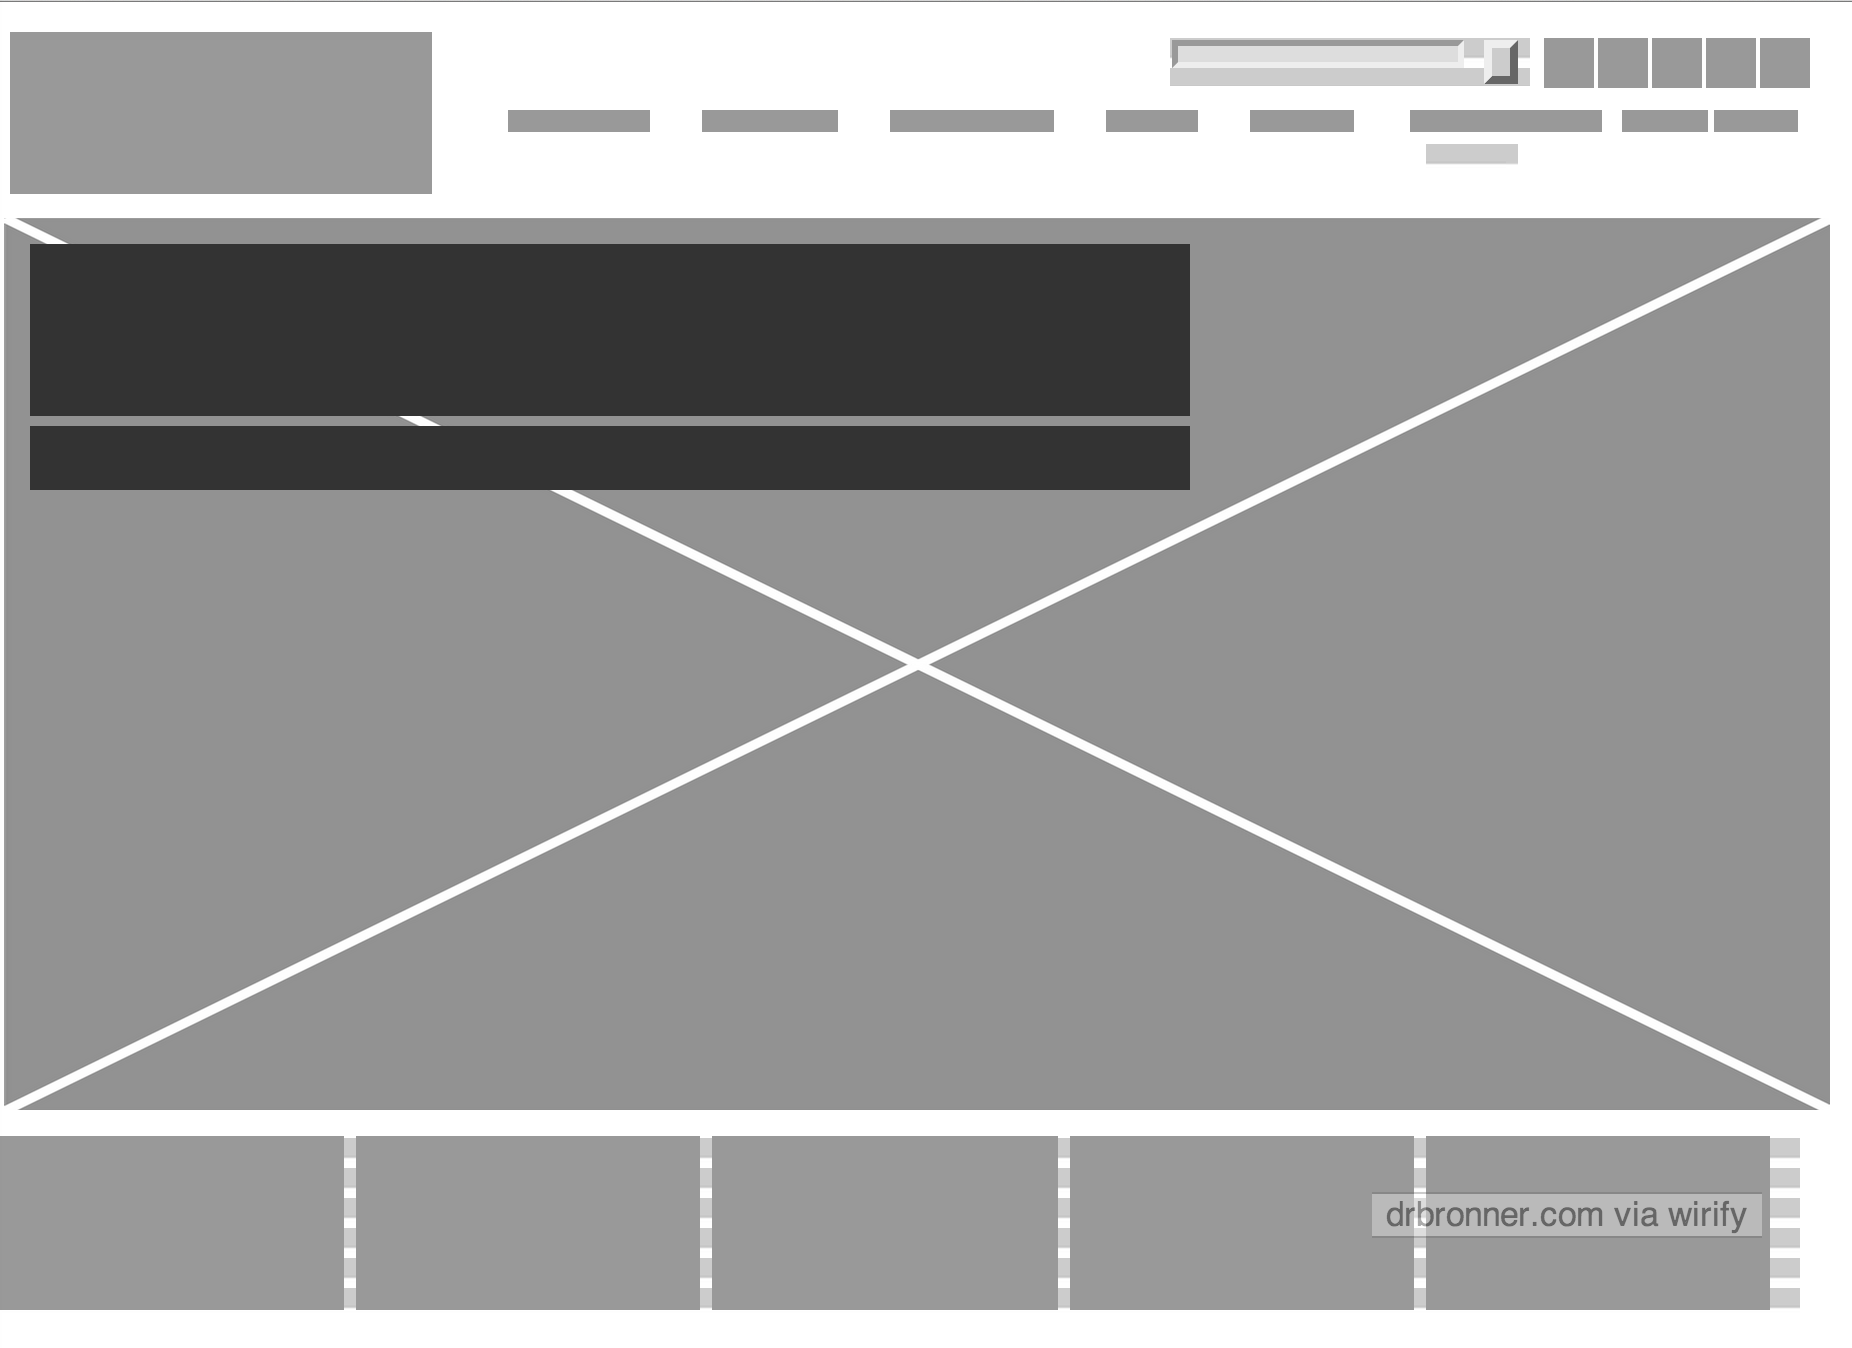
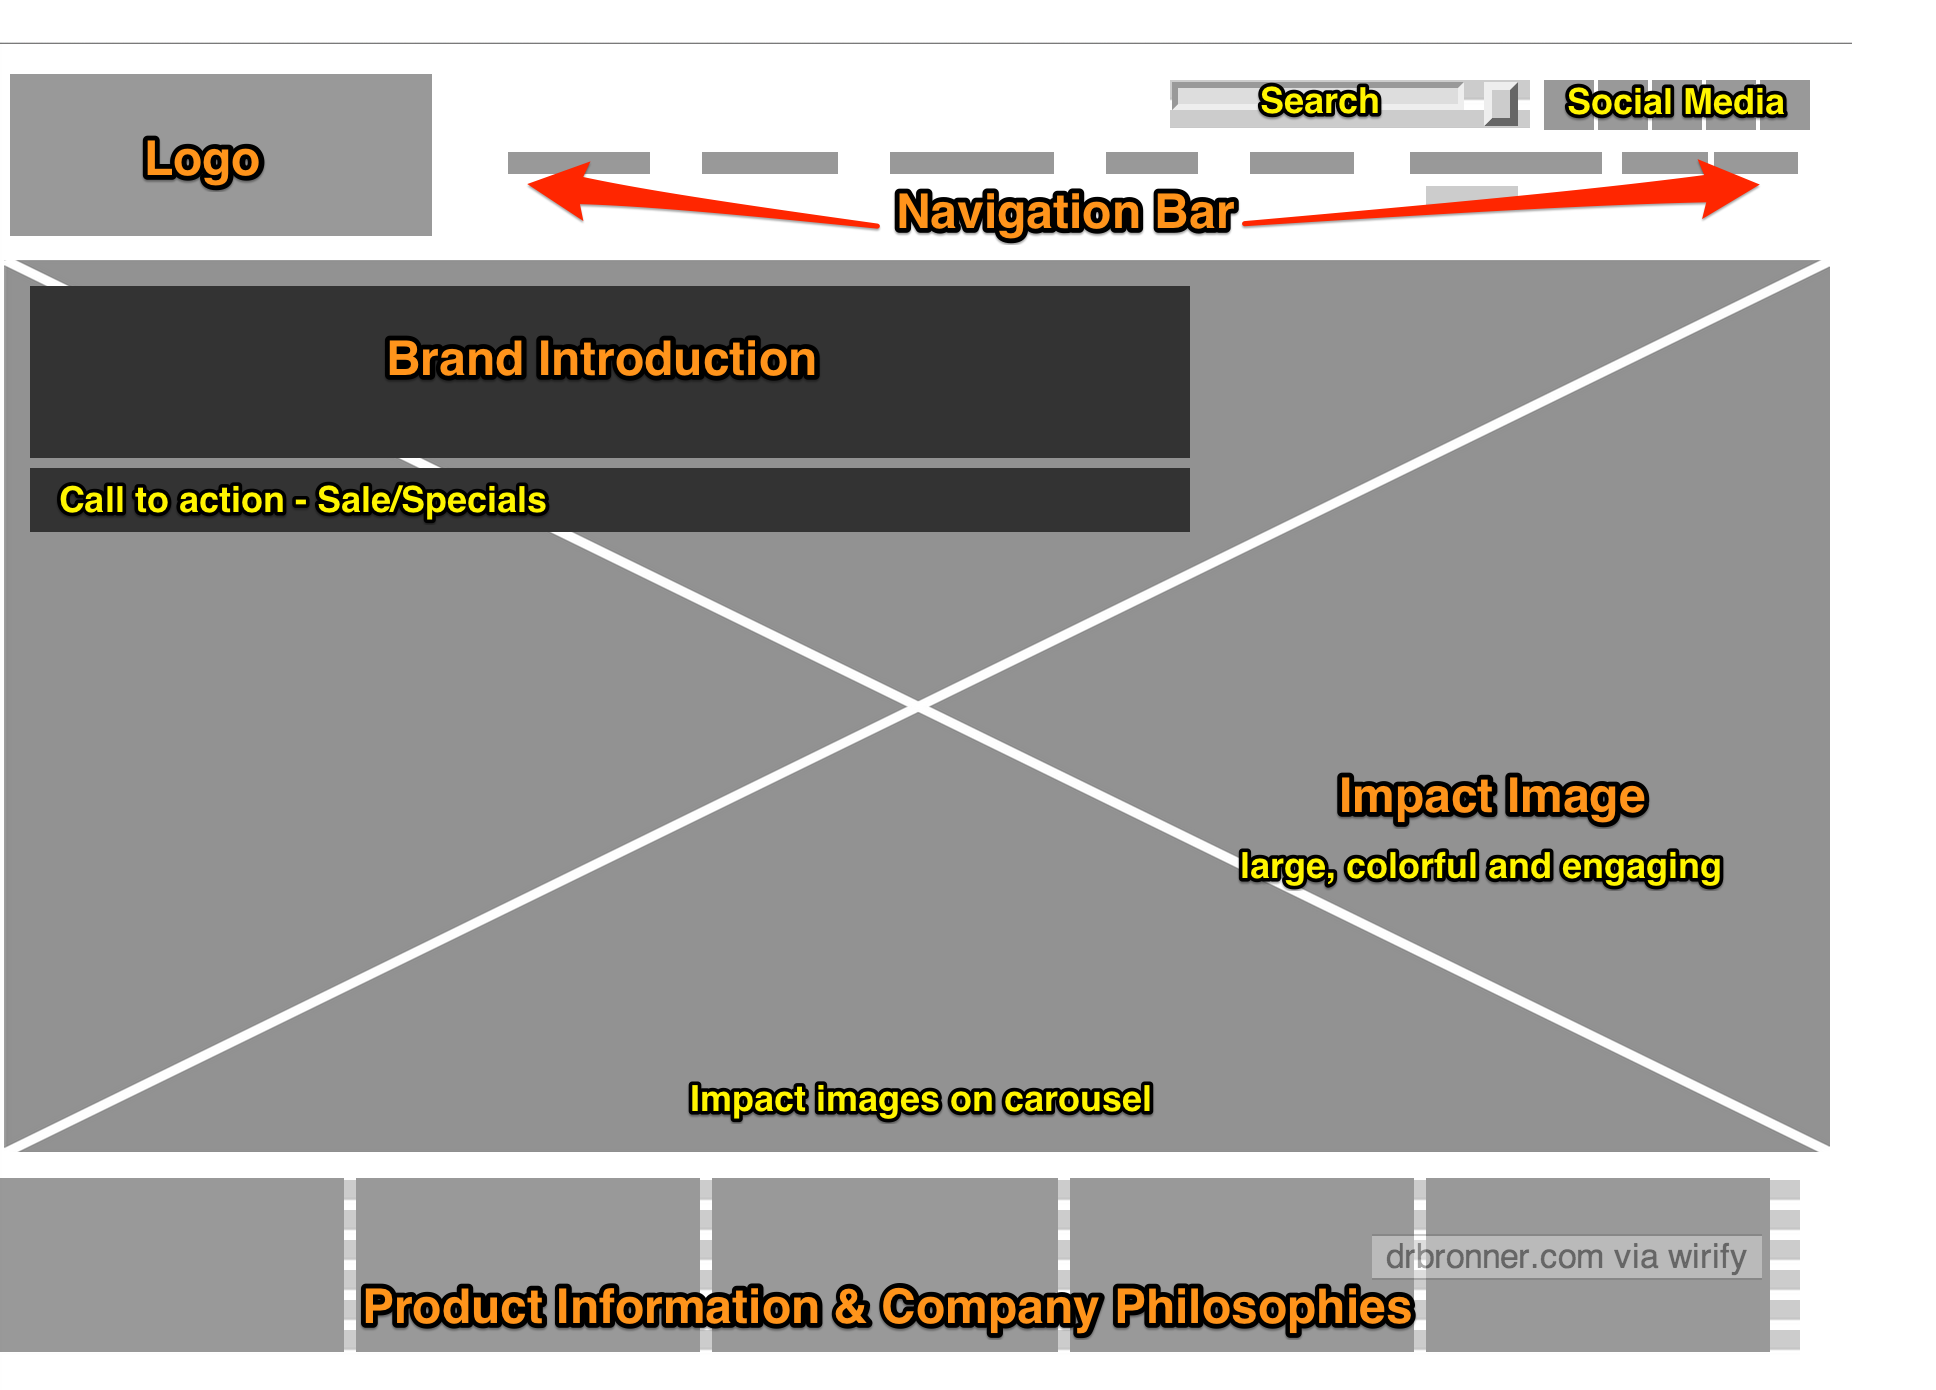
Edit to html and css and add comments to wireframe
Edited wording on index.html and dbc2.html. Edited styling on
blog_template.css and dbc2.css. Added text to wireframe images for
clarification. Added new background image to images folder.

diff --git a/unit1_projects/stylesheets/dbc2.css b/unit1_projects/stylesheets/dbc2.css
@@ -1,7 +1,4 @@
-div {
-	border-radius: 5px;
-}
-
+/* background styling */
 #bg {
   position: fixed; 
   top: -50%; 
@@ -9,7 +6,6 @@ div {
   width: 200%; 
   height: 200%;
 }
-
 #bg img {
   position: absolute; 
   top: 0; 
@@ -21,21 +17,28 @@ div {
   min-height: 50%;
 }
 
+/* gerneral div styling */
+div {
+	border-radius: 5px;
+	background-color: gray;
+	font-family: Arial, sans-serif;
+}
+
+/* header styling */
 #header {
 	position: relative;
 	width: relative;
 	margin-top: 10px;
 	height: 80px;
-	background-color: silver;
 }
-
 #title {
 	float: left;
 	margin-left: 25px;
-	font-family: Arial;
-	color: white;
+	color: lime;
+	text-transform: uppercase;
 }
 
+/* menu styling */
 .menu {
 	position: relative;
 	float: left;
@@ -44,73 +47,34 @@ div {
 	width: 15%;
 	height: 600px;
 	background-color: silver;
-	font-family: Arial
 }
-
 .menu h3, h4 {
-	color: white;
+	color: navy;
 	text-align: center;
+	text-transform: uppercase;
 }
-
 a:link {
 	text-decoration: none;
-	color: purple;
+	color: white;
 }
 a:hover {
 	font-weight: bold;
+	text-transform: uppercase;
 	color: lime;
 }
 a:visited {
-	color: navy;
+	color: blue;
 }
 
+/* psuedo code styling 
 #goto li:first-child {
 	font-family: fantasy;
 }
 #goto li:nth-child(3) {
 	font-family: cursive;
-}
+} */
 
-.content h3 {
-	margin-left: 30px;
-	margin-bottom: 20px;
-	color: white;
-}
-
-.content p {
-	margin-left: 30px;
-	margin-right: 30px;
-}
-
-#footer {
-	position: relative;
-	margin-bottom: -10px;
-	height: 30px;
-	background-color: silver;
-	clear: both;
-	text-align: center;
-	font-family: Arial;
-	color: white
-}
-
-#footer p {
-	position: relative;
-	padding-top: 7px;
-}
-
-img {
-	width: 250px;
-	height: 250px;
-}
-
-figure {
-	display: inline-block;
-	margin-left: 30px;
-	margin-top: 1px;
-	width: 270px;
-	height: 250px;
-}
-
+/* main content styling */
 .content {
 	position: relative;
 	float: right;
@@ -119,5 +83,40 @@ figure {
 	width: 82%;
 	height: 600px;
 	background-color: silver;
-	font-family: Arial;
+}
+.content h3 {
+	margin-left: 30px;
+	margin-bottom: 20px;
+	color: navy;
+	text-transform: uppercase;
+}
+.content p {
+	margin-left: 30px;
+	margin-right: 30px;
+}
+img {
+	width: 250px;
+	height: 250px;
+}
+figure {
+	display: inline-block;
+	margin-left: 30px;
+	margin-top: 1px;
+	width: 270px;
+	height: 250px;
+}
+
+/* footer styling */
+#footer {
+	position: relative;
+	margin-bottom: -10px;
+	height: 30px;
+	clear: both;
+	text-align: center;
+	color: lime;
+	text-transform: uppercase;
+}
+#footer p {
+	position: relative;
+	padding-top: 7px;
 }

diff --git a/index.html b/index.html
@@ -6,23 +6,24 @@
 	</head>
 	<body>
 		<div id="bg">
-			<img src="unit1_projects/images/damnationcreektrail.jpg">
+	<!--	<img src="unit1_projects/images/damnationcreektrail.jpg"> -->
+			<img src="unit1_projects/images/graffiti.jpg">
 		</div> <!-- Close bg : background wallpaper -->
 		<div id="header">
-			<h1 id="title">ehsalazar - Interwebs Home</h1>
+			<h1 id="title">Interwebs Home</h1>
 		</div> <!-- Close header -->
 		<div class="menu">
 			<h4>Getting Around</h4>
 			<ul id="goto">
-				<li><a href="ehsalazar.github.io">Home</a></li>
-				<li><a href="ehsalazar.github.io/unit1_projects/dbc2.html">About Me</a></li>
+				<li><a href="http://ehsalazar.github.io">Home</a></li>
+				<li><a href="http://ehsalazar.github.io/unit1_projects/dbc2.html">About Me</a></li>
 				<li>Blog</li>
 			</ul>
 			<h4>Connect</h4>
 			<ul>
-				<li><a href="https://twitter.com/ehsalazar">Tweet Me!</a></li>
-				<li><a href="https://www.facebook.com/ernie.salazar">Friend Me!</a></li>
-				<li><a href="https://github.com/ehsalazar">Code Me!</a></li>
+				<li><a href="http://twitter.com/ehsalazar">Tweet Me!</a></li>
+				<li><a href="http://www.facebook.com/ernie.salazar">Friend Me!</a></li>
+				<li><a href="http://github.com/ehsalazar">Code Me!</a></li>
 			</ul>
 			<h4>Communicate</h4>
 			<ul>
@@ -31,14 +32,14 @@
 		</div> <!-- Close menu -->
 		<div class="content">
 
-			<h3>Listening to...Justin Vivian Bond, song by: Bambi Lake, Co-Directors: Silas Howard and Erin Greenwell</h3>
+			<h3>NOW PLAYING...Justin Vivian Bond, Song by Bambi Lake, Directors Silas Howard and Erin Greenwell</h3>
 
 			<iframe src="http://www.youtube.com/embed/fwr0pFho32E?rel=0" frameborder="0" allowfullscreen></iframe>
 
 
 		</div> <!-- Close content -->
 		<div id="footer">
-			<p>Thanks for checking me out! Please feel free to connect and visit again soon.</p>
+			<p><strong>Created by Ernie Salazar - Dev Bootcamp - Phase 0<strong></p>
 		</div> <!-- Close footer -->
 	</body> <!-- Close body -->
 </html>

diff --git a/unit1_projects/dbc2.html b/unit1_projects/dbc2.html
@@ -6,29 +6,30 @@
 	</head>
 	<body>
 		<div id="bg">
-			<img src="images/damnationcreektrail.jpg">
+	<!--	<img src="unit1_projects/images/damnationcreektrail.jpg"> -->
+			<img src="images/graffiti.jpg">
 		</div>
 		<div id="header">
 			<h1 id="title">Get to Know Me</h1>
-		</div>
+		</div> <!-- close header -->
 		<div class="menu">
 			<h4>Getting Around</h4>
 			<ul id="goto">
-				<li>Home</li>
-				<li>About Me</li>
+				<li><a href="http://ehsalazar.github.io/">Home</a></li>
+				<li><a href="http://ehsalazar.github.io/unit1_projects/dbc2.html">About Me</a></li>
 				<li>Blog</li>
 			</ul>
 			<h4>Connect</h4>
 			<ul>
-				<li><a href="https://twitter.com/ehsalazar">Tweet Me!</a></li>
-				<li><a href="https://www.facebook.com/ernie.salazar">Friend Me!</a></li>
-				<li><a href="https://github.com/ehsalazar">Code Me!</a></li>
+				<li><a href="http://twitter.com/ehsalazar">Tweet Me!</a></li>
+				<li><a href="http://www.facebook.com/ernie.salazar">Friend Me!</a></li>
+				<li><a href="http://github.com/ehsalazar">Code Me!</a></li>
 			</ul>
 			<h4>Communicate</h4>
 			<ul>
 				<li><a href="mailto:ehsalazar75@gmail.com">Email Me!</a></li>
 			</ul>
-		</div>
+		</div> <!-- close menu -->
 		<div class="content">
 
 			<h3>Hello Stranger Friend</h3>
@@ -59,9 +60,9 @@
 					</a>
 				</figure>
 			
-		</div>
+		</div> <!-- close content -->
 		<div id="footer">
-			<p>Thanks for checking me out! Please feel free to connect and visit again soon.</p>
-		</div>
-	</body>
+			<p><strong>Created by Ernie Salazar - Dev Bootcamp - Phase 0 - Week 1<strong></p>
+		</div> <!-- close footer -->
+	</body> <!-- close body -->
 </html>

diff --git a/unit1_projects/stylesheets/blog_template.css b/unit1_projects/stylesheets/blog_template.css
@@ -20,8 +20,8 @@
 /* general div styling */
 div {
 	border-radius: 5px;
-	background-color: silver;
-	font-family: Arial;
+	background-color: gray;
+	font-family: Arial, sans-serif;
 }
 
 /* header styling */
@@ -34,7 +34,8 @@ div {
 #title {
 	float: left;
 	margin-left: 25px;
-	color: white;
+	color: lime;
+	text-transform: uppercase;
 }
 
 /* menu styling */
@@ -45,29 +46,33 @@ div {
 	margin-bottom: 30px;
 	width: 15%;
 	height: 600px;
+	background-color: silver;
 }
 .menu h3, h4 {
-	color: white;
+	color: navy;
 	text-align: center;
+	text-transform: uppercase;
 }
 a:link {
 	text-decoration: none;
-	color: purple;
+	color: white;
 }
 a:hover {
 	font-weight: bold;
+	text-transform: uppercase;
 	color: lime;
 }
 a:visited {
-	color: navy;
+	color: blue;
 }
+/* psuedo code styling 
 /*#goto li:first-child {
 	font-family: fantasy;
 }
 #goto li:nth-child(3) {
 	font-family: cursive;
-}
-*/
+} */
+
 /* main content styling */
 .content {
 	position: relative;
@@ -76,11 +81,13 @@ a:visited {
 	margin-bottom: 30px;
 	width: 82%;
 	height: 600px;
+	background-color: silver;
 }
 .content h3 {
 	margin-left: 30px;
 	margin-bottom: 20px;
-	color: white;
+	color: navy;
+	/* text-transform: uppercase; */
 }
 .content p {
 	margin-left: 30px;
@@ -90,7 +97,7 @@ a:visited {
 iframe {
 	width: 853px;
 	height: 480px;
-	margin-left: 80px;
+	margin-left: 90px;
 }
 
 /* footer styling */
@@ -100,7 +107,8 @@ iframe {
 	height: 30px;
 	clear: both;
 	text-align: center;
-	color: white
+	color: lime;
+	text-transform: uppercase;
 }
 #footer p {
 	position: relative;

diff --git a/unit1_projects/blog_template.html b/unit1_projects/blog_template.html
@@ -45,7 +45,7 @@
 
 		</div> <!-- Close content -->
 		<div id="footer">
-			<p>Thanks for checking me out! Please feel free to connect and visit again soon.</p>
+			<p><strong>Created by Ernie Salazar - Dev Bootcamp - Phase 0<strong></p>
 		</div> <!-- Close footer -->
 	</body> <!-- Close body -->
 </html>
